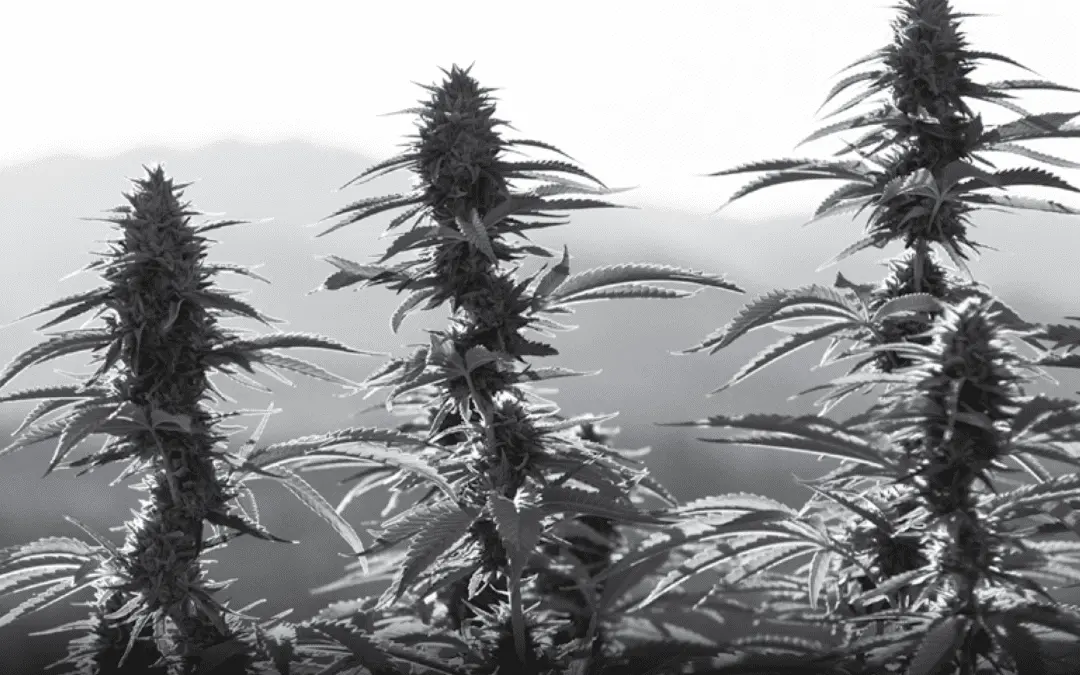
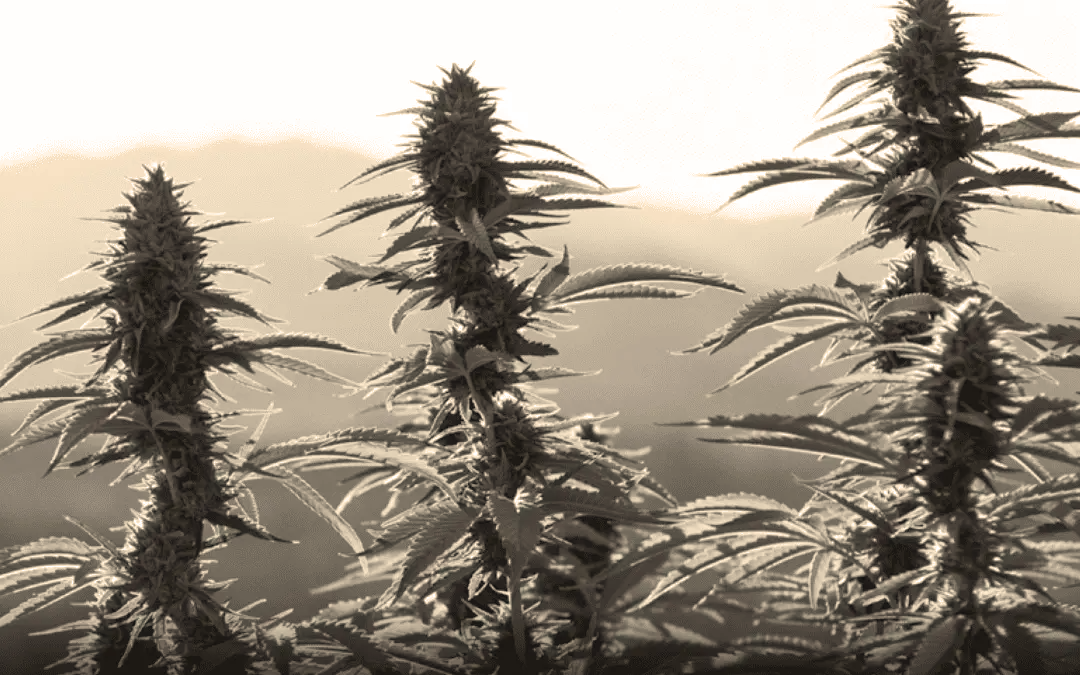
1.27.0
added additional categories properly positioned it, set images to look better.

diff --git a/client/src/components/CategoryMenu/index.js b/client/src/components/CategoryMenu/index.js
@@ -16,6 +16,22 @@ function CategoryMenu() {
 
   const { loading, data: categoryData } = useQuery(QUERY_CATEGORIES);
 
+  const containerStyles = {
+    display: "flex",
+    flexWrap: "wrap",
+    justifyContent: "center",
+    alignItems: "center",
+    minHeight: "100vh",
+    marginLeft: "2%",
+  };
+
+  const itemStyles = {
+    flex: "0 0 25%",
+    padding: "5px",
+    boxSizing: "border-box",
+    textAlign: "center",
+  };
+
   useEffect(() => {
     if (categoryData) {
       dispatch({
@@ -43,20 +59,12 @@ function CategoryMenu() {
   };
 
   return (
-    <div
-      style={{
-        display: "flex",
-        justifyContent: "center",
-        alignItems: "center",
-      }}
-    >
-      <div>
-        <h2 style={{ textAlign: "center" }}>Categories</h2>
-        <hr style={{ borderTop: "1px solid #d3d3d3" }} />
-        {categories.map((item) => (
+    <div style={containerStyles}>
+      <h2 style={{ textAlign: "center", width: "100%" }}>Categories</h2>
+      <hr style={{ borderTop: "1px solid #d3d3d3", width: "100%" }} />
+      {categories.map((item) => (
+        <div key={item._id} style={itemStyles}>
           <Link
-            style={{ marginLeft: 10, display: "inline-block" }}
-            key={item._id}
             to={`/products/categories/${item._id}`}
             onClick={() => {
               handleClick(item._id);
@@ -65,13 +73,13 @@ function CategoryMenu() {
             <img
               src={`./images/${item.image}`}
               alt="categoryimg"
-              style={{ maxHeight: 270, width: 300 }}
+              style={{ maxHeight: 240, width: 300 }}
             />
             <br />
             <p style={{ textAlign: "center" }}> {item.name} </p>
           </Link>
-        ))}
-      </div>
+        </div>
+      ))}
     </div>
   );
 }

diff --git a/server/config/seeds.js b/server/config/seeds.js
@@ -5,10 +5,14 @@ db.once("open", async () => {
   await Category.deleteMany();
 
   const categories = await Category.insertMany([
-    { name: "Edible", image: "delta8edi1.png" },
-    { name: "Flower", image: "delta85.png" },
-    { name: "Pens", image: "delta8pen2.png" },
-    { name: "Extras", image: "delta8extra1.png" },
+    { name: "Edible", image: "edible.png" },
+    { name: "Flower", image: "flower.png" },
+    { name: "Pens", image: "pen.png" },
+    { name: "Accessories", image: "accessories.png" },
+    { name: "Hookah", image: "hookah.png" },
+    { name: "Glass", image: "glass.png" },
+    { name: "CBD", image: "cbd.png" },
+    { name: "Nootropics", image: "nootropic.png" },
   ]);
 
   console.log("categories seeded");

diff --git a/client/src/components/Footer/index.js b/client/src/components/Footer/index.js
@@ -21,7 +21,7 @@ const Footer = () => {
         </p>
         <br />
         <br />
-        <div style={{ float: "left", maxWidth: "28%" }}>
+        <div style={{ float: "left", maxWidth: "28%", marginLeft: '3%'}}>
           <h3 style={{ marginLeft: "3%" }}> Paradise Hemp Dispensary </h3>
           <br />
           <p style={{ fontSize: 15 }}>

diff --git a/client/src/components/Modal/index.js b/client/src/components/Modal/index.js
@@ -133,7 +133,6 @@ const Modal = (props) => {
                 <button
                   style={{
                     color: "rgb(77, 77, 77)",
-                    backgroundColor: "transparent",
                     fontWeight: "bold",
                     textTransform: "uppercase",
                     padding: "0.75rem 1.5rem",

diff --git a/client/src/index.css b/client/src/index.css
@@ -133,8 +133,7 @@ canvas {
 
 .landingBtn {
   height: 40px;
-  color: rgb(245, 245, 245);
-  box-shadow: 1px 1px var(--secondary);
+  box-shadow: 1px 1px 15px var(--secondary);
 }
 
 button {
